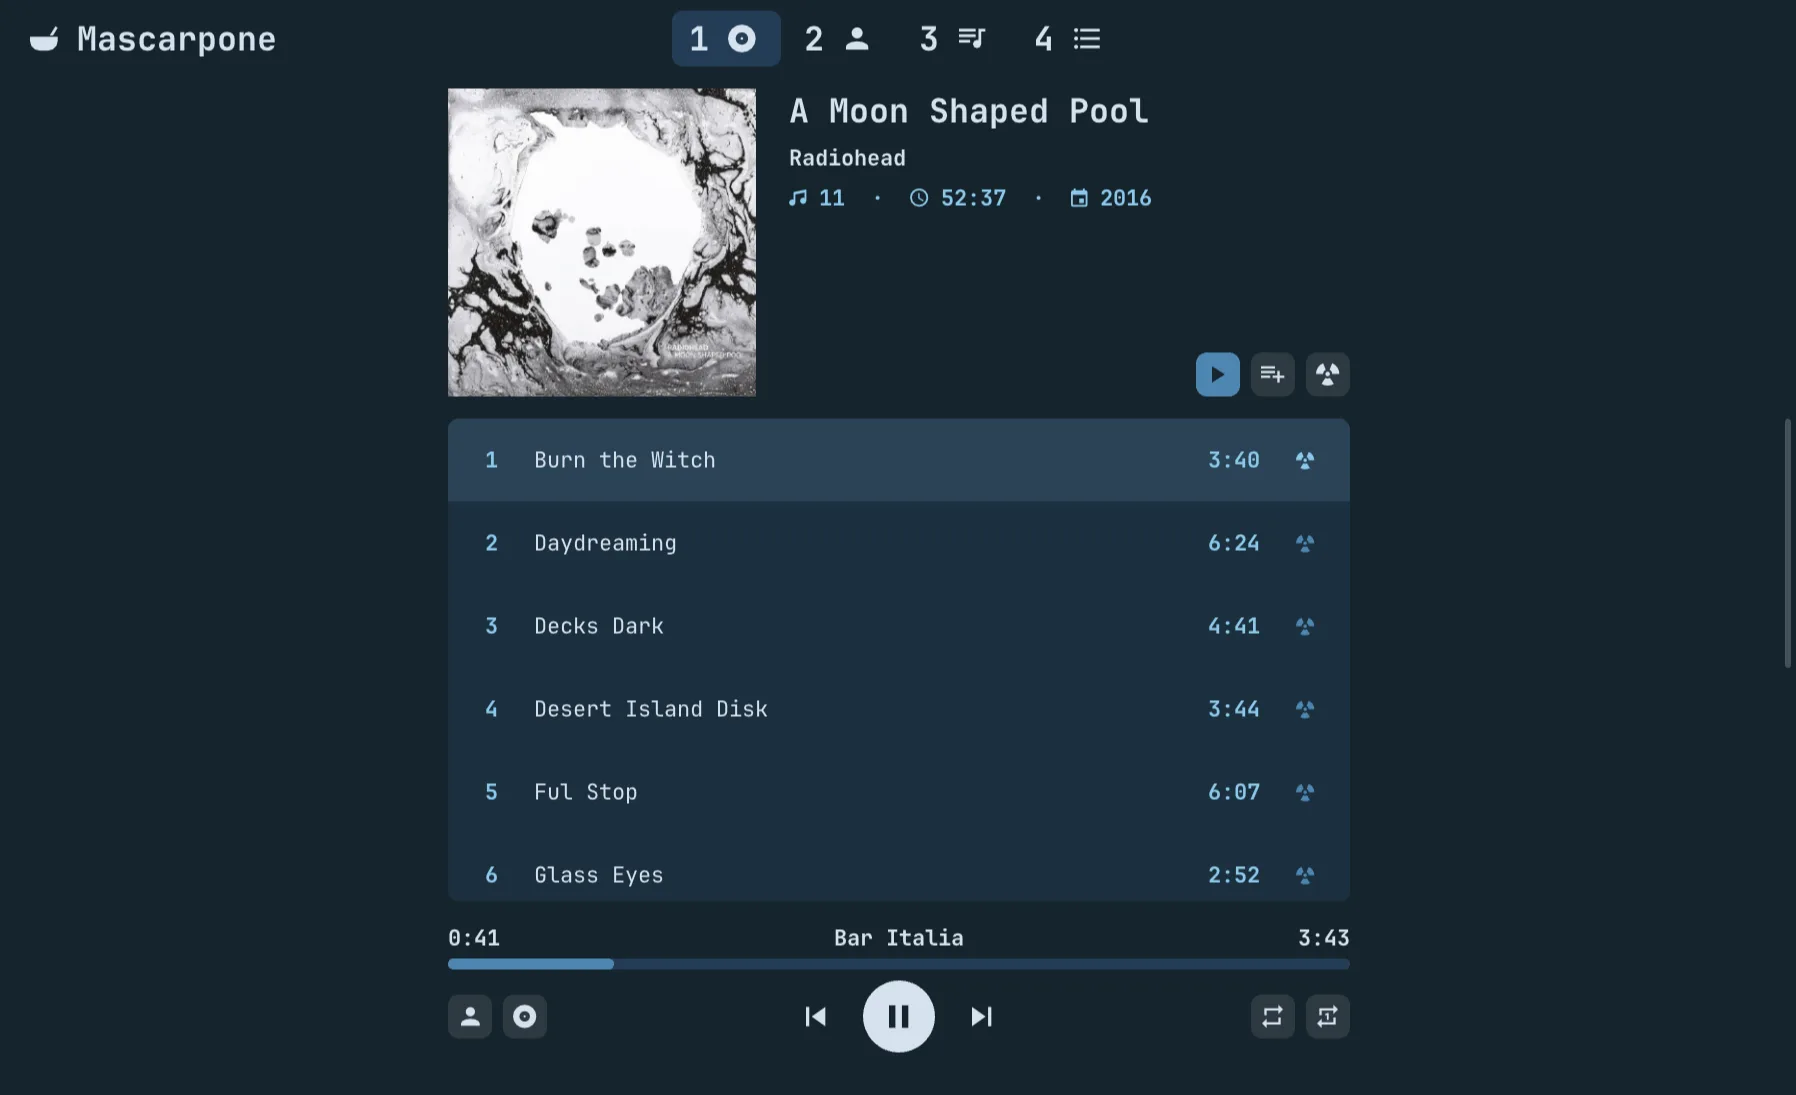
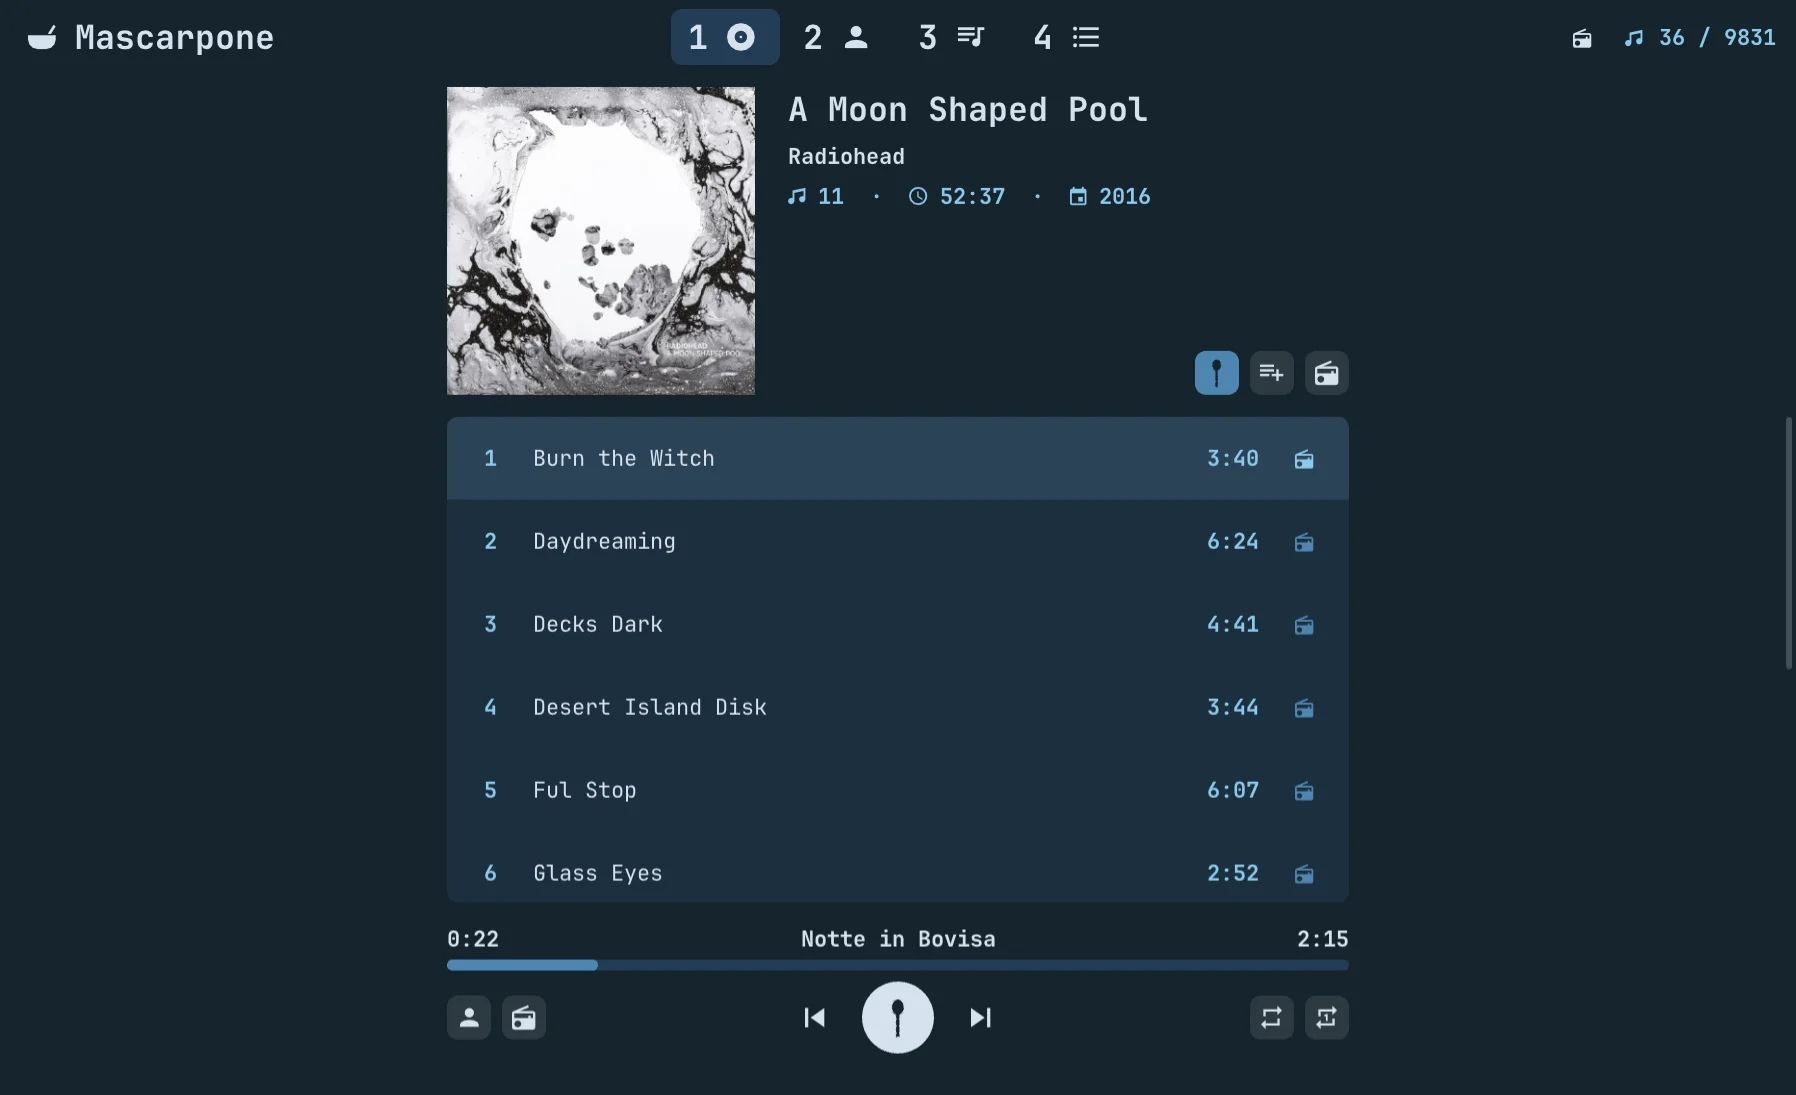
A spoon for play, a radio for the radio, the song's repeat off with a new queue
The play glyph is a spoon, Material Design's silverware-spoon turned
45 degrees at drawing so it stands with its bowl up, in the player, on
the cards and in the lists; on the album cards it is the first button
from the right, the radio beside it. The radio's glyph is the tabletop
radio. When the queue is replaced by an album, a playlist or a radio,
or grown by an append, the repeat of one song is put off. The screens
redone.

diff --git a/src/text.rs b/src/text.rs
@@ -80,8 +80,15 @@ impl Face {
         let Some((_, r)) = self.glyph(c) else { return };
         let pad = self.font.glyphPadding as f32;
         let src = Rectangle { x: r.x - pad, y: r.y - pad, width: r.width + 2.0 * pad, height: r.height + 2.0 * pad };
-        let dst = Rectangle { x: (center.x - r.width / 2.0).round() - pad, y: (center.y - r.height / 2.0).round() - pad, width: src.width, height: src.height };
-        unsafe { rl::DrawTexturePro(self.font.texture, src, dst, Vector2::default(), 0.0, color) };
+        let turn = crate::glyphs::turn(glyph);
+        if turn == 0.0 {
+            let dst = Rectangle { x: (center.x - r.width / 2.0).round() - pad, y: (center.y - r.height / 2.0).round() - pad, width: src.width, height: src.height };
+            unsafe { rl::DrawTexturePro(self.font.texture, src, dst, Vector2::default(), 0.0, color) };
+        } else {
+            // turned about its centre: the origin is the destination's middle, which then sits at the centre
+            let dst = Rectangle { x: center.x.round(), y: center.y.round(), width: src.width, height: src.height };
+            unsafe { rl::DrawTexturePro(self.font.texture, src, dst, Vector2 { x: src.width / 2.0, y: src.height / 2.0 }, turn, color) };
+        }
     }
 
     pub fn ellipsize<'a>(&self, s: &'a str, max: f32) -> std::borrow::Cow<'a, str> {

diff --git a/src/app.rs b/src/app.rs
@@ -416,7 +416,16 @@ impl App {
         self.load_tab();
     }
 
+    /// Repeating one song ends with the queue it was set on: a new or
+    /// grown queue puts the repeat off.
+    fn unrepeat_one(&mut self) {
+        if self.now.as_ref().is_some_and(|n| n.status.single == mpd_client::commands::SingleMode::Enabled) {
+            self.send(Command::RepeatOff);
+        }
+    }
+
     pub fn load(&mut self, source: Source, uris: Vec<String>, start: usize) {
+        self.unrepeat_one();
         let random = match &source {
             Source::Playlist { path } => master::shuffled(path),
             _ => false,
@@ -428,6 +437,7 @@ impl App {
     }
 
     pub fn append(&mut self, uris: Vec<String>) {
+        self.unrepeat_one();
         self.master.append(&uris);
         self.send(Command::Queue { uris });
     }
@@ -628,6 +638,7 @@ impl App {
             self.notice(format!("{}  {}", glyphs::RADIO, glyphs::NOTHING), Some(Duration::from_secs(4)));
             return;
         }
+        self.unrepeat_one();
         self.send(Command::Random(false));
         self.send(Command::Play { uris: uris.clone(), start: 0 });
         self.master.point(Source::Radio { seed }, uris);

diff --git a/src/glyphs.rs b/src/glyphs.rs
@@ -10,7 +10,7 @@ pub const REPEAT: &str = "\u{f0456}";
 pub const REPEAT_ONE: &str = "\u{f0458}";
 pub const PREVIOUS: &str = "\u{f04ae}";
 pub const NEXT: &str = "\u{f04ad}";
-pub const PLAY: &str = "\u{f040a}";
+pub const PLAY: &str = "\u{f04a5}";
 pub const PAUSE: &str = "\u{f03e4}";
 pub const SAVE: &str = "\u{f0193}";
 pub const CLEAR: &str = "\u{f0413}";
@@ -30,6 +30,11 @@ pub const CONNECTED: &str = "\u{f0318}";
 pub const DISCONNECTED: &str = "\u{f0319}";
 pub const REFRESH: &str = "\u{f05c2}";
 pub const COMMAND: &str = "\u{f030c}";
-pub const RADIO: &str = "\u{f043c}";
+pub const RADIO: &str = "\u{f0439}";
+
+/// Degrees a glyph is turned when drawn: the spoon stands, bowl up.
+pub fn turn(glyph: &str) -> f32 {
+    if glyph == PLAY { -45.0 } else { 0.0 }
+}
 
 pub const ALL: &[&str] = &[APP, ALBUM, TRACK, ARTIST, PLAYLIST, QUEUE, ADD, QUEUE_ADD, REPEAT, REPEAT_ONE, PREVIOUS, NEXT, PLAY, PAUSE, SAVE, CLEAR, UP, DOWN, REMOVE, SHUFFLE, DELETE, MISSING, YEAR, LENGTH, RETRY, WIKIPEDIA, NOTHING, FOLDER, CONNECTED, DISCONNECTED, REFRESH, COMMAND, RADIO];

diff --git a/src/view.rs b/src/view.rs
@@ -248,10 +248,10 @@ fn album_card(app: &App, ui: &mut Ui, cell: R, library: &Arc<Library>, a: usize,
     }
 
     if over || selected {
-        if card_button(ui, cover, 1, glyphs::PLAY, true) {
+        if card_button(ui, cover, 0, glyphs::PLAY, true) {
             app.act(Action::Load { source: Source::Album { key: album.key.clone() }, uris: album.uris(), start: 0 });
         }
-        if card_button(ui, cover, 0, glyphs::RADIO, app.vectors.is_some()) {
+        if card_button(ui, cover, 1, glyphs::RADIO, app.vectors.is_some()) {
             app.act(Action::Radio(crate::radio::Seed::Album(album.key.clone())));
         }
     }

diff --git a/README.md b/README.md
@@ -22,7 +22,7 @@ for an album, with the folder's name.
 | | |
 |---|---|
 | ![An artist's page: the portrait and the words from the net, the albums](docs/artist.webp) | ![An album's page](docs/album.webp) |
-| ![The playlists, each with the covers of its first sixteen albums](docs/playlists.webp) | ![The queue, an album of Pulp playing, the song on marked, a radio key on every row](docs/queue.webp) |
+| ![The playlists, each with the covers of its first sixteen albums](docs/playlists.webp) | ![The queue, a radio from Calibro 35's first album on, the song playing marked, a radio key on every row](docs/queue.webp) |
 | ![The picker on everything](docs/picker.webp) | ![The commands' picker, every action with its keys](docs/commands.webp) |
 
 ## Build
